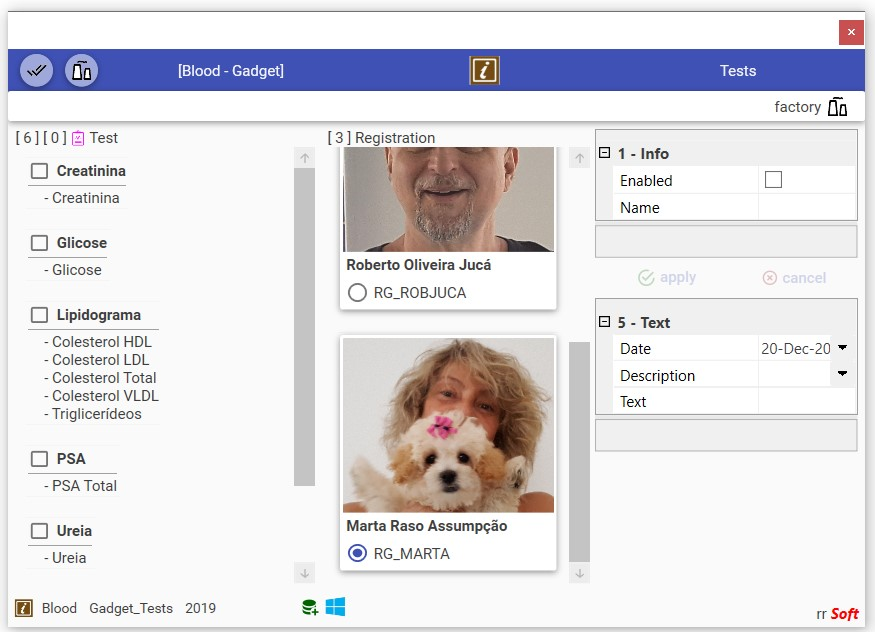
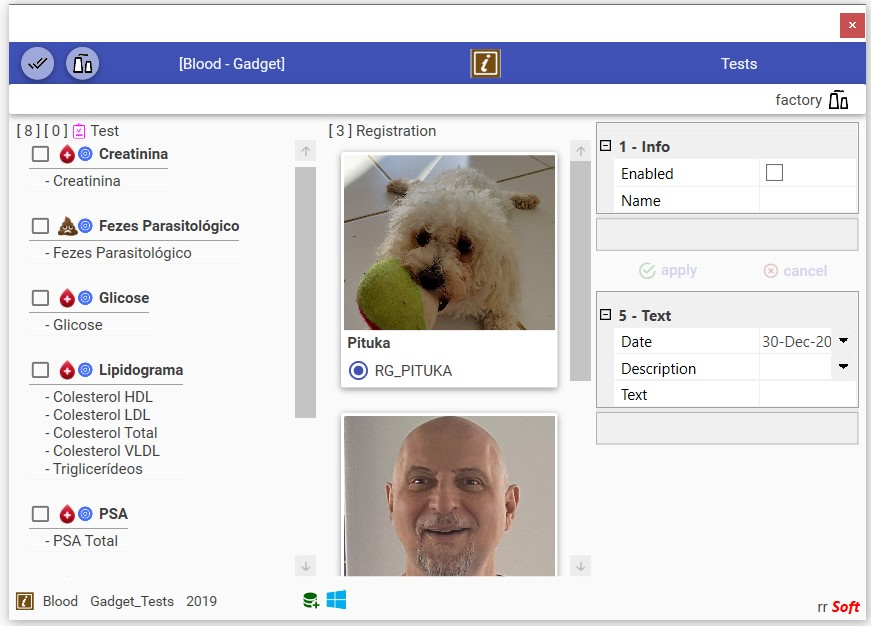
update

diff --git a/Gadget/MedicalCare/Tests/Modules/Collection/Collection/Pattern/Views/CollectionListView.xaml b/Gadget/MedicalCare/Tests/Modules/Collection/Collection/Pattern/Views/CollectionListView.xaml
@@ -2,15 +2,12 @@
                     xmlns="http://schemas.microsoft.com/winfx/2006/xaml/presentation"
                     xmlns:x="http://schemas.microsoft.com/winfx/2006/xaml"
                     xmlns:base="clr-namespace:rr.Library.Infrastructure;assembly=rr.Library.Infrastructure"
-                    xmlns:converters="clr-namespace:rr.Library.Converter;assembly=rr.Library.Converter"
                     xmlns:scm="clr-namespace:System.ComponentModel;assembly=WindowsBase"
                     xmlns:caliburn="http://www.caliburnproject.org"
                     DataContext="{x:Null}"
                     x:Name="ModuleCollectionListViewModel">
 
     <UserControl.Resources>
-        <converters:TCollectionToBitmapImageConverter  x:Key="CollectionToBitmapImageConverter" />
-
         <CollectionViewSource x:Key="TestsModelItemsViewSource"
                               Source="{Binding Model.TestsItemsSource}">
             <CollectionViewSource.GroupDescriptions>

diff --git a/Gadget/MedicalCare/Tests/Modules/Factory/Factory/Pattern/Views/FactoryListView.xaml b/Gadget/MedicalCare/Tests/Modules/Factory/Factory/Pattern/Views/FactoryListView.xaml
@@ -46,6 +46,11 @@
                         <CheckBox Margin="0 0 5 0"
                                   caliburn:Message.Attach="[Event Checked] = [OnTestItemChecked ($dataContext)]; [Event Unchecked] = [OnTestItemUnchecked ($dataContext)]" />
 
+                        <!--material image-->
+                        <Image Width="16"
+                               Height="16" ToolTip="{Binding GadgetMaterialName}"
+                               Source="{Binding GadgetMaterialImage, Converter={StaticResource CollectionToBitmapImageConverter}}" />
+
                         <!--test icon-->
                         <ContentControl  Visibility="{Binding GadgetTestVisibility}"
                                          Style="{DynamicResource GadgetTestMiniIcon}" />

diff --git a/Gadget/MedicalCare/Tests/Modules/Factory/Factory/Pattern/Models/FactoryListModel.cs b/Gadget/MedicalCare/Tests/Modules/Factory/Factory/Pattern/Models/FactoryListModel.cs
@@ -5,6 +5,7 @@
 
 //----- Include
 using System;
+using System.Collections.Generic;
 using System.Collections.ObjectModel;
 using System.Windows;
 
@@ -73,6 +74,7 @@ namespace Gadget.Factory.Pattern.Models
       RegistrationCurrent = TComponentModelItem.CreateDefault;
 
       m_TestCheckedItems = new Collection<TGadgetTestInfo> ();
+      m_MaterialFullCollection = new Dictionary<string, Server.Models.Component.GadgetMaterial> ();
     }
     #endregion
 
@@ -84,6 +86,17 @@ namespace Gadget.Factory.Pattern.Models
 
       action.ThrowNull ();
 
+      // Material
+      if (action.CategoryType.IsCategory (Server.Models.Infrastructure.TCategory.Material)) {
+        m_MaterialFullCollection.Clear ();
+
+        foreach (var gadget in action.CollectionAction.GadgetMaterialCollection) {
+          if (gadget.Enabled) {
+            m_MaterialFullCollection.Add (gadget.Material, gadget);
+          }
+        }
+      }
+
       // Test
       if (action.CategoryType.IsCategory (Server.Models.Infrastructure.TCategory.Test)) {
         TestItemsSource.Clear ();
@@ -94,9 +107,11 @@ namespace Gadget.Factory.Pattern.Models
               var modelAction = action.CollectionAction.ModelCollection [gadget.Id];
 
               if (modelAction.ComponentStatusModel.Busy.IsFalse ()) {
-                TestItemsSource.Add (TGadgetTestInfo.Create (gadget));
+                if (m_MaterialFullCollection.ContainsKey (gadget.Material)) {
+                  TestItemsSource.Add (TGadgetTestInfo.Create (gadget, m_MaterialFullCollection [gadget.Material]));
 
-                action.IdCollection.Add (gadget.Id); // for future uodate
+                  action.IdCollection.Add (gadget.Id); // for future uodate
+                }
               }
             }
           }
@@ -165,7 +180,8 @@ namespace Gadget.Factory.Pattern.Models
     #endregion
 
     #region Fields
-    readonly Collection<TGadgetTestInfo>                        m_TestCheckedItems;
+    readonly Collection<TGadgetTestInfo>                                            m_TestCheckedItems;
+    readonly Dictionary<string, Server.Models.Component.GadgetMaterial>             m_MaterialFullCollection;
     #endregion
   };
   //---------------------------//
@@ -186,7 +202,7 @@ namespace Gadget.Factory.Pattern.Models
     {
       get
       {
-        return (Gadget.RequestCategory ());
+        return (GadgetTest.RequestCategory ());
       }
     }
 
@@ -194,7 +210,7 @@ namespace Gadget.Factory.Pattern.Models
     {
       get
       {
-        return (Gadget.Test);
+        return (GadgetTest.Test);
       }
     }
 
@@ -203,13 +219,34 @@ namespace Gadget.Factory.Pattern.Models
       get
       {
         var names = new Collection<string> ();
-        Gadget.RequestContentNames (names);
+        GadgetTest.RequestContentNames (names);
 
         return (names);
       }
     }
 
-    public Server.Models.Component.GadgetTest Gadget
+    public Server.Models.Component.GadgetMaterial GadgetMaterial
+    {
+      get;
+    }
+
+    public string GadgetMaterialName
+    {
+      get
+      {
+        return (GadgetMaterial.Material);
+      }
+    }
+
+    public Collection<byte> GadgetMaterialImage
+    {
+      get
+      {
+        return (GadgetMaterial.Image);
+      }
+    }
+
+    public Server.Models.Component.GadgetTest GadgetTest
     {
       get; 
     }
@@ -232,36 +269,38 @@ namespace Gadget.Factory.Pattern.Models
     #endregion
 
     #region Constructor
-    TGadgetTestInfo (Server.Models.Component.GadgetTest gadget)
+    TGadgetTestInfo (Server.Models.Component.GadgetTest gadgetTest, Server.Models.Component.GadgetMaterial gadgetMaterial)
       : this ()
     {
-      if (gadget.NotNull ()) {
-        Gadget.CopyFrom (gadget.Clone ());
+      if (gadgetTest.NotNull () && gadgetMaterial.NotNull ()) {
+        GadgetMaterial.CopyFrom (gadgetMaterial);
+        GadgetTest.CopyFrom (gadgetTest.Clone ());
       }
     }
 
     TGadgetTestInfo ()
     {
-      Gadget = Server.Models.Component.GadgetTest.CreateDefault;
+      GadgetMaterial= Server.Models.Component.GadgetMaterial.CreateDefault;
+      GadgetTest = Server.Models.Component.GadgetTest.CreateDefault;
     }
     #endregion
 
     #region Members
     public bool Contains (Guid id)
     {
-      return (Gadget.Id.Equals (id));
+      return (GadgetTest.Id.Equals (id));
     }
 
     public void UpdateContents (Server.Models.Component.TEntityAction action)
     {
       if (action.NotNull ()) {
-        Gadget.UpdateContents (action);
+        GadgetTest.UpdateContents (action);
       }
     } 
     #endregion
 
     #region Static
-    public static TGadgetTestInfo Create (Server.Models.Component.GadgetTest gadget) => new TGadgetTestInfo (gadget); 
+    public static TGadgetTestInfo Create (Server.Models.Component.GadgetTest gadgetTest, Server.Models.Component.GadgetMaterial gadgetMaterial) => new TGadgetTestInfo (gadgetTest, gadgetMaterial); 
     #endregion
   };
   //---------------------------//

diff --git a/Gadget/MedicalCare/Tests/Modules/Factory/Factory/Pattern/ViewModels/FactoryListViewModel.cs b/Gadget/MedicalCare/Tests/Modules/Factory/Factory/Pattern/ViewModels/FactoryListViewModel.cs
@@ -53,14 +53,20 @@ namespace Gadget.Factory.Pattern.ViewModels
             // Collection-Full
             if (message.Support.Argument.Types.IsOperation (Server.Models.Infrastructure.TOperation.Collection, Server.Models.Infrastructure.TExtension.Full)) {
               if (message.Result.IsValid) {
-                // Gadget Test
-                if (message.Support.Argument.Types.IsOperationCategory (Server.Models.Infrastructure.TCategory.Test)) {
+                // Gadget Material
+                if (message.Support.Argument.Types.IsOperationCategory (Server.Models.Infrastructure.TCategory.Material)) {
                   var action = Server.Models.Component.TEntityAction.Request (message.Support.Argument.Types.EntityAction);
                   TDispatcher.BeginInvoke (ResponseDataDispatcher, action);
                 }
 
                 // Gadget Registration
                 if (message.Support.Argument.Types.IsOperationCategory (Server.Models.Infrastructure.TCategory.Registration)) {
+                  var action = Server.Models.Component.TEntityAction.Request (message.Support.Argument.Types.EntityAction);
+                  TDispatcher.BeginInvoke (ResponseDataDispatcher, action);
+                }
+
+                // Gadget Test
+                if (message.Support.Argument.Types.IsOperationCategory (Server.Models.Infrastructure.TCategory.Test)) {
                   var action = Server.Models.Component.TEntityAction.Request (message.Support.Argument.Types.EntityAction);
                   TDispatcher.BeginInvoke (ResponseDataDispatcher, action);
                 }
@@ -135,6 +141,18 @@ namespace Gadget.Factory.Pattern.ViewModels
 
       DelegateCommand.PublishInternalMessage.Execute (message);
 
+      // Material - Collection - Full 
+      action = Server.Models.Component.TEntityAction.Create (
+        Server.Models.Infrastructure.TCategory.Material,
+        Server.Models.Infrastructure.TOperation.Collection,
+        Server.Models.Infrastructure.TExtension.Full
+      );
+
+      message = new TFactoryMessageInternal (TInternalMessageAction.Request, TChild.List, TypeInfo);
+      message.Support.Argument.Types.Select (action);
+
+      DelegateCommand.PublishInternalMessage.Execute (message);
+
       // Test - Collection - Full 
       action = Server.Models.Component.TEntityAction.Create (
         Server.Models.Infrastructure.TCategory.Test,
@@ -150,7 +168,7 @@ namespace Gadget.Factory.Pattern.ViewModels
 
     void ResponseDataDispatcher (Server.Models.Component.TEntityAction action)
     {
-      // Collection - Full (Registration list, Test list)
+      // Collection - Full (Material, Registration, Test)
       Model.Select (action);
 
       TDispatcher.Invoke (RefreshAllDispatcher);
